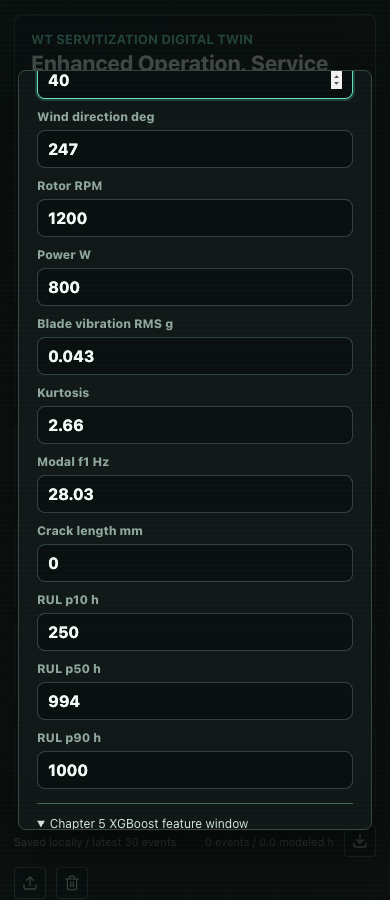
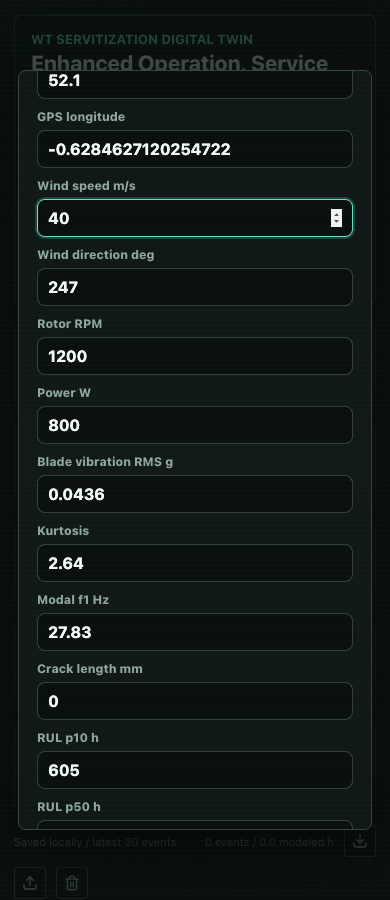
docs: record published calibrated RUL verification

Changed region(s): [[0.0923, 0.0622, 0.9231, 0.4044], [0.0923, 0.4356, 0.6462, 0.9333], [0.3077, 0.56, 0.3385, 0.5911]]

diff --git a/README.md b/README.md
@@ -65,7 +65,7 @@ Current RUL calculations use **responsive XGBoost with a window-calibrated envel
 
 Process and equations: [repair log](docs/fixes/IMPLEMENTATION_LOG.md), [model basis](docs/model/MODEL_BASIS.md), [browser results](screenshots/fixes/verification.json). Real sensing/control, approval, measured effect and live SHACL remain pending.
 
-XGBoost sources, fitted models and validation: [current calibration record](docs/model/CALIBRATED_XGBOOST.md), [current manifest](models/chapter5-calibrated/manifest.json), [current Python/browser parity](models/chapter5-calibrated/browser-parity.json), [historical integration record](docs/model/XGBOOST_IMPLEMENTATION.md), [preserved original manifest](models/chapter5/manifest.json). Full named feature JSON windows can be imported in Input Scenario. Automatic/basic manual scenarios explicitly use reference-assisted features with no validated coverage; manual RUL overrides retain their own provenance. Existing immutable service events retain historical model versions.
+XGBoost sources, fitted models and validation: [current calibration record](docs/model/CALIBRATED_XGBOOST.md), [current manifest](models/chapter5-calibrated/manifest.json), [current Python/browser parity](models/chapter5-calibrated/browser-parity.json), [public browser verification](screenshots/xgboost/public/verification.json), [historical integration record](docs/model/XGBOOST_IMPLEMENTATION.md), [preserved original manifest](models/chapter5/manifest.json). Full named feature JSON windows can be imported in Input Scenario. Automatic/basic manual scenarios explicitly use reference-assisted features with no validated coverage; manual RUL overrides retain their own provenance. Existing immutable service events retain historical model versions.
 
 ## Sensor References
 

diff --git a/docs/model/CALIBRATED_XGBOOST.md b/docs/model/CALIBRATED_XGBOOST.md
@@ -74,4 +74,6 @@ Automated checks verify native/browser parity, unchanged baseline hashes, disjoi
 
 Local verification passed: all 35 tests (8 XGBoost / 15 operating-history / 6 ontology / 6 Framework), TypeScript/Vite production build, both-route feature-window imports, rejected malformed inputs, calibration evidence persistence and mobile/desktop layout. Both routes completed two automatic services with continuous Framework flow and resumed rotor motion (`screenshots/framework/verification.json`). History interruption/import, cross-event evidence, freshness and chart-canvas checks also passed (`screenshots/fixes/verification.json`). Native/browser raw-inference parity is zero error on 948 comparisons. Production JS remains approximately 1.47 MB / 394 KB gzip; the existing >500 KB bundle warning is retained.
 
+Implementation commit [`b0b7fe8`](https://github.com/JerryMa619/wt-servitization-dashboard/commit/b0b7fe8) passed [GitHub Pages build/deployment 36969286395](https://github.com/JerryMa619/wt-servitization-dashboard/actions/runs/36969286395). Both public routes then passed the complete feature-window/calibration evidence, invalid-input rejection, history persistence/reload, scope disclosure and desktop/mobile checks. Public screenshots and [verification JSON](../../screenshots/xgboost/public/verification.json) record `ch5-xgb-cqr-2.0`. The committed-source training command was rerun and reproduced the same artifacts with no Git changes.
+
 To establish realistic physical RUL, the next required evidence is timestamped degradation trajectories and actual failure/censoring endpoints, identified by blade/run, followed by grouped chronological validation and an independent calibration set. Synthetic-window success cannot replace that step.
